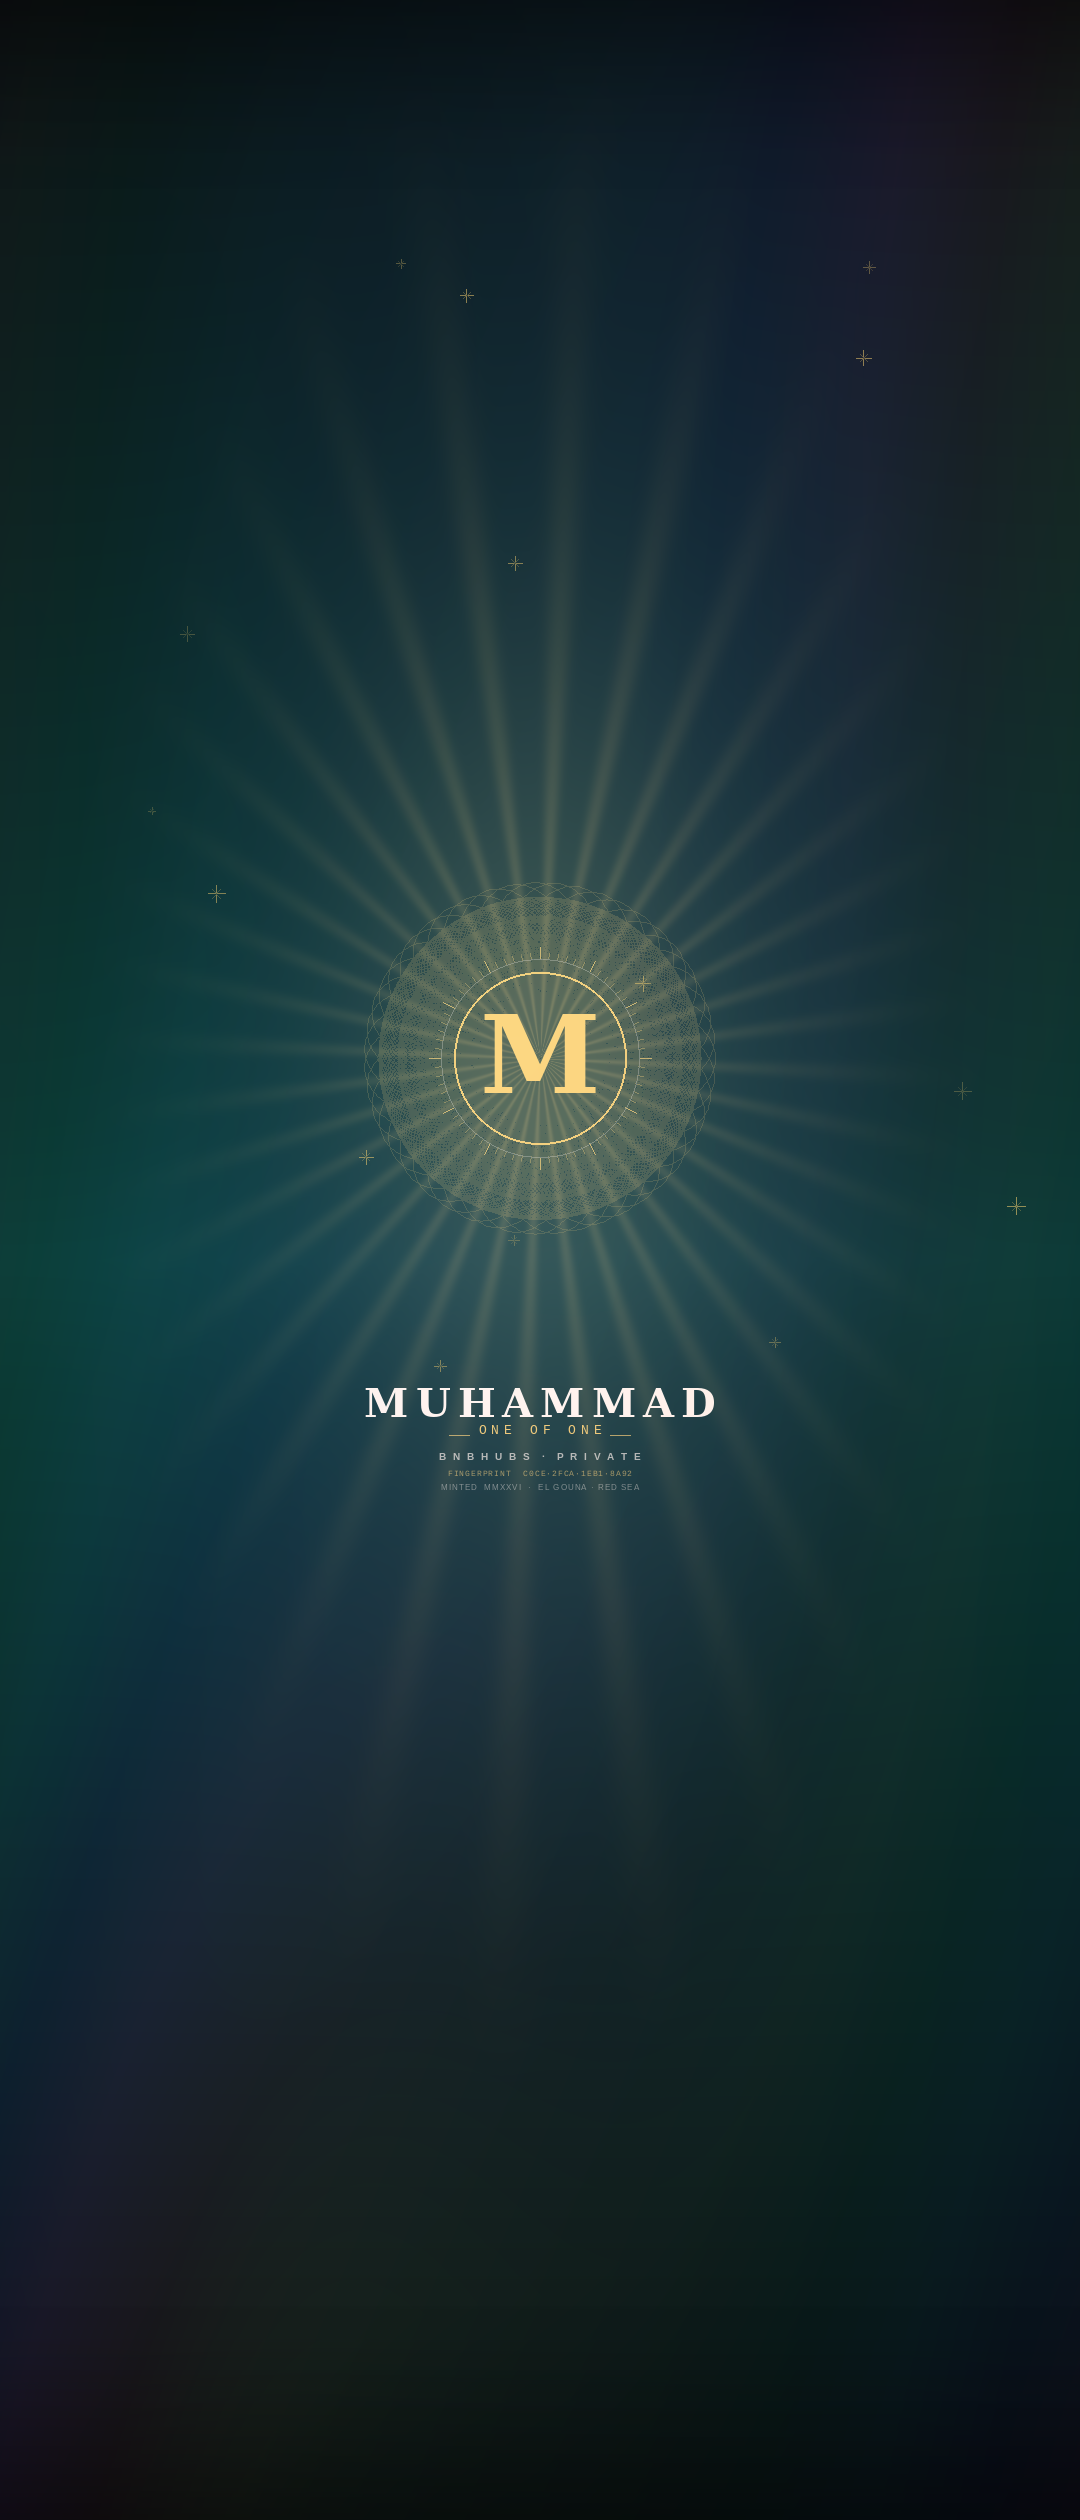
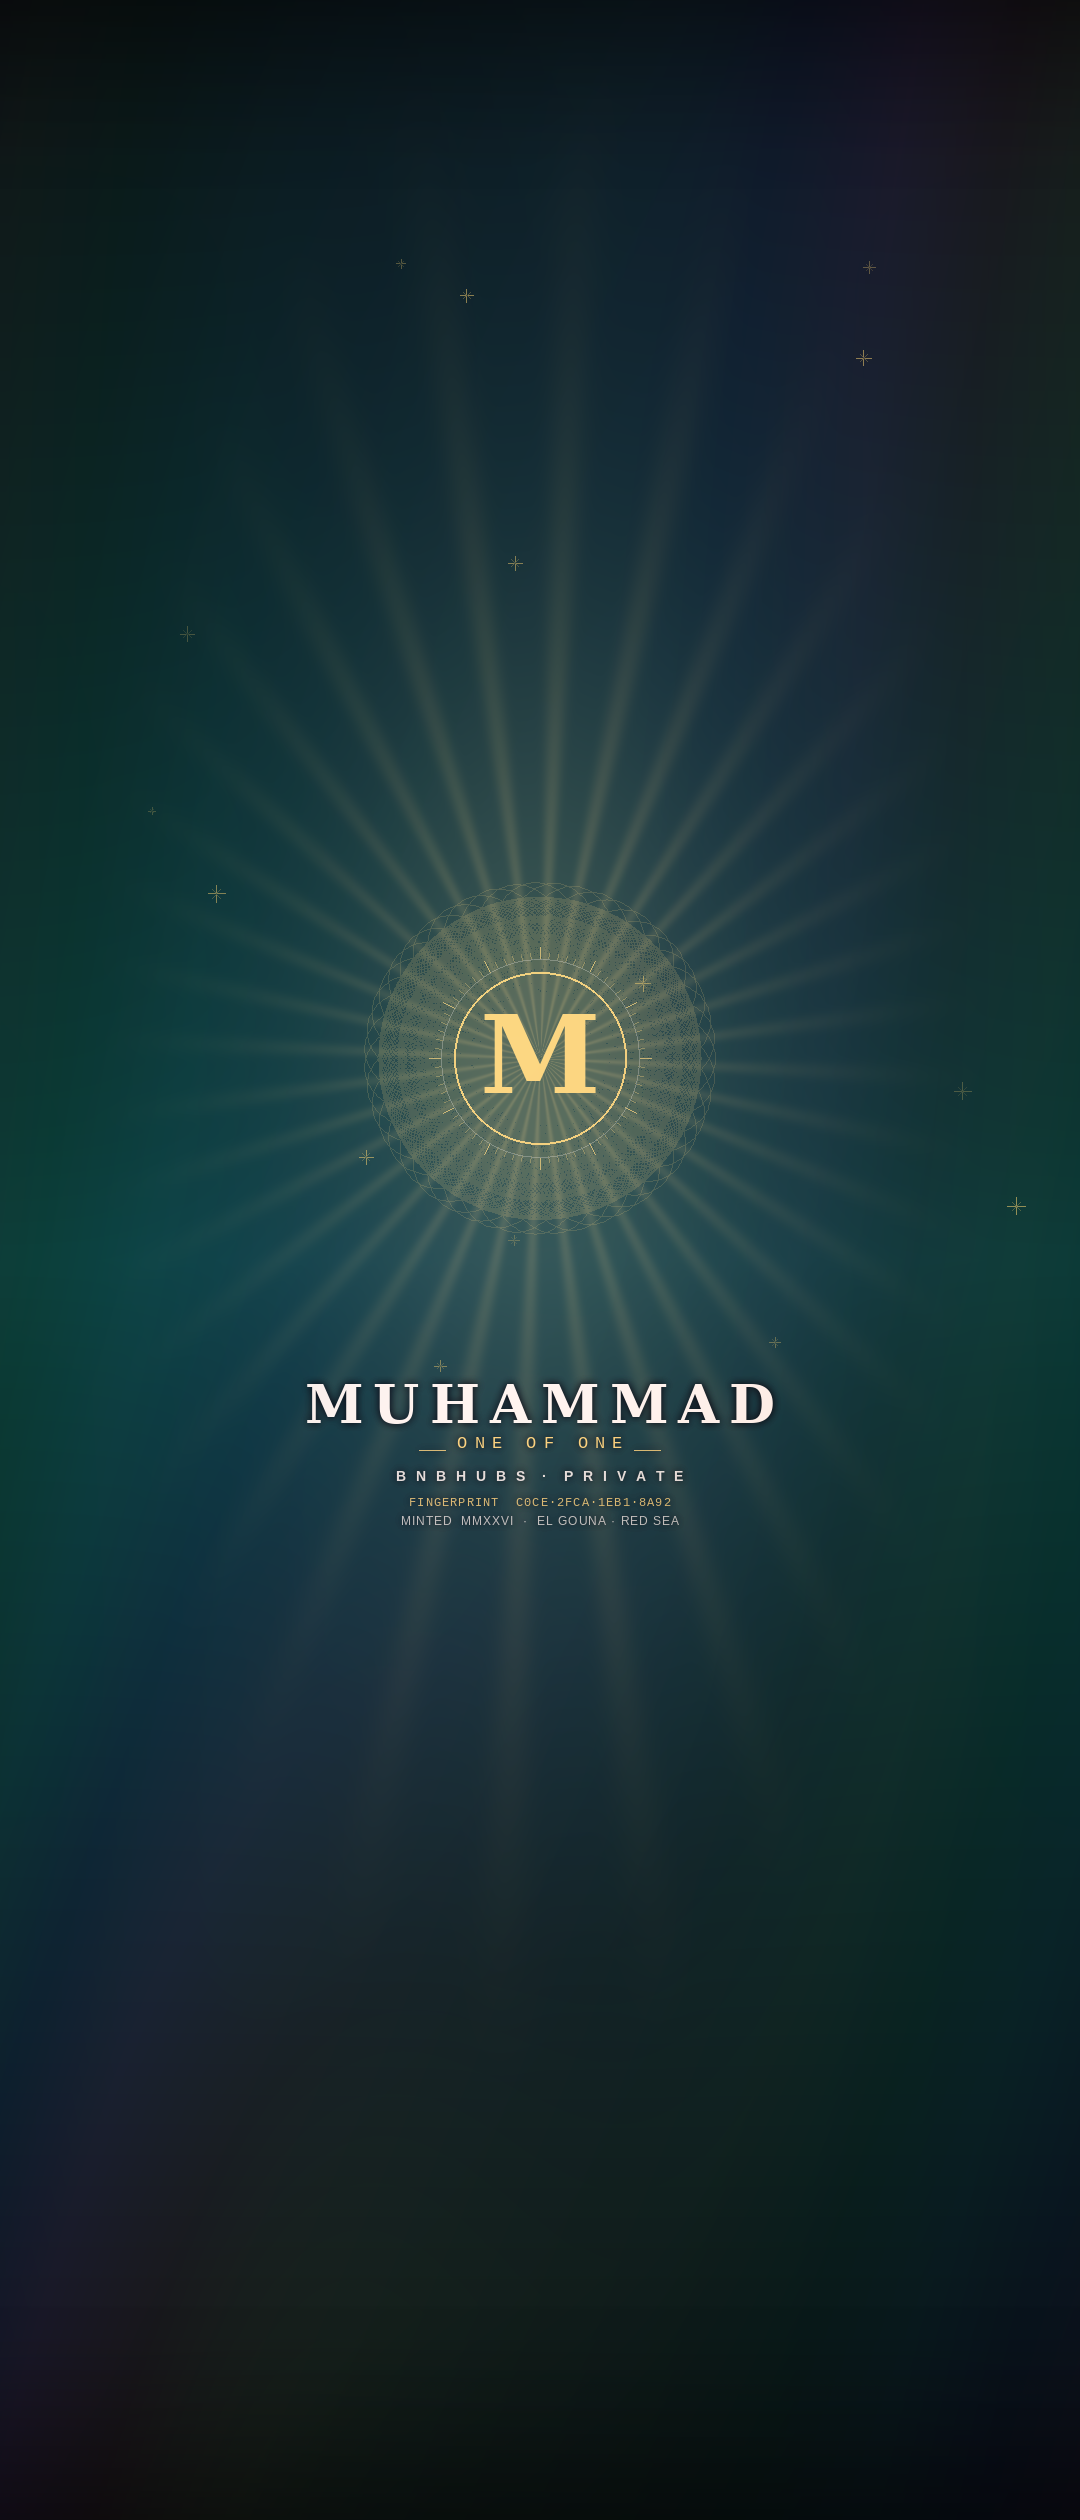
Improve wallpaper text legibility without changing tone
Adds a soft contrast halo behind all text (dark halo in dark mode, light
in light), raises text opacity, and enforces a larger minimum text size on
the cover screen so the name, edition, fingerprint and mark stay readable.
Colors, emblem, gradients and overall mood are unchanged.

Changed region(s): [[0.275, 0.5262, 0.7028, 0.619]]

diff --git a/wallpapers/bnbhubs-private-edition/generate.py b/wallpapers/bnbhubs-private-edition/generate.py
@@ -19,7 +19,7 @@ GOLD=np.array([232,176,75])/255; GOLD_B=np.array([244,205,110])/255; CORAL=np.ar
 IVORY=np.array([244,236,221])/255; SAND=np.array([225,207,173])/255; CREAM=np.array([243,244,242])/255
 
 FD="/usr/share/fonts/truetype"
-def font(p,s): return ImageFont.truetype(os.path.join(FD,p),max(8,int(s)))
+def font(p,s): return ImageFont.truetype(os.path.join(FD,p),max(12,int(s)))
 F_SERIF_B="dejavu/DejaVuSerif-Bold.ttf"; F_SANS="liberation/LiberationSans-Regular.ttf"
 F_SANS_B="liberation/LiberationSans-Bold.ttf"; F_MONO="liberation/LiberationMono-Regular.ttf"
 
@@ -102,23 +102,35 @@ def monogram_seal(cx,cy,scale,ink,accent):
 def mark(cx,cy,ink,accent,scale=1.0):
     ov=Image.new("RGBA",(W,H),(0,0,0,0)); d=ImageDraw.Draw(ov)
     ic=tuple(int(c*255) for c in ink); ac=tuple(int(c*255) for c in accent)
-    px,py=int(cx*W),int(cy*H); sc=scale*S
-    draw_text_spaced(d,(px,py),"B N B H U B S",font(F_SANS_B,30*sc),ic+(225,),tracking=int(8*sc))
-    lw=draw_text_spaced(d,(px,py+int(36*sc)),EDITION,font(F_MONO,19*sc),ac+(220,),tracking=int(6*sc))
-    ry=py+int(36*sc)+int(9*sc)
-    d.line([px-lw/2-int(40*sc),ry,px-lw/2-int(14*sc),ry],fill=ac+(160,),width=1)
-    d.line([px+lw/2+int(14*sc),ry,px+lw/2+int(40*sc),ry],fill=ac+(160,),width=1)
-    draw_text_spaced(d,(px,py+int(66*sc)),"FOR "+OWNER,font(F_SANS,16*sc),ic+(150,),tracking=int(3*sc))
-    draw_text_spaced(d,(px,py+int(90*sc)),FINGERPRINT,font(F_MONO,12*sc),ac+(120,),tracking=int(2*sc))
+    px,py=int(cx*W),int(cy*H); sc=scale*max(S,0.72)
+    draw_text_spaced(d,(px,py),"B N B H U B S",font(F_SANS_B,30*sc),ic+(240,),tracking=int(8*sc))
+    lw=draw_text_spaced(d,(px,py+int(38*sc)),EDITION,font(F_MONO,20*sc),ac+(240,),tracking=int(6*sc))
+    ry=py+int(38*sc)+int(10*sc)
+    d.line([px-lw/2-int(40*sc),ry,px-lw/2-int(14*sc),ry],fill=ac+(190,),width=max(1,int(1.3*sc)))
+    d.line([px+lw/2+int(14*sc),ry,px+lw/2+int(40*sc),ry],fill=ac+(190,),width=max(1,int(1.3*sc)))
+    draw_text_spaced(d,(px,py+int(70*sc)),"FOR "+OWNER,font(F_SANS,17*sc),ic+(215,),tracking=int(3*sc))
+    draw_text_spaced(d,(px,py+int(96*sc)),FINGERPRINT,font(F_MONO,15*sc),ac+(200,),tracking=int(2*sc))
     return ov
 def comp(arr,ov,blur=0):
     if blur: ov=ov.filter(ImageFilter.GaussianBlur(blur))
     base=to_img(arr).convert("RGBA"); base.alpha_composite(ov)
     return np.asarray(base.convert("RGB")).astype(np.float32)/255
 
+def shadow_comp(arr,ov,mode,alpha=0.7,blur=None):
+    """Composite a text overlay with a soft contrast halo behind it (dark halo
+    in dark mode, light halo in light mode) — boosts legibility, keeps tone."""
+    if blur is None: blur=max(4,int(7*S))
+    base=to_img(arr).convert("RGBA"); a=ov.split()[3]
+    val=0 if mode=='dark' else 255
+    sh_a=a.point(lambda v:int(v*alpha))
+    chan=Image.new("L",(W,H),val)
+    shadow=Image.merge("RGBA",(chan,chan,chan,sh_a)).filter(ImageFilter.GaussianBlur(blur))
+    base.alpha_composite(shadow); base.alpha_composite(shadow); base.alpha_composite(ov)
+    return np.asarray(base.convert("RGB")).astype(np.float32)/255
+
 def finalize(arr,mode,ink,acc,irid=0.05,spark=False,markpos=0.135):
     arr=arr+iridescent(irid,mode); arr=vignette(arr,0.20 if mode=='dark' else 0.12); arr=arr+grain(0.010)
-    arr=comp(arr,mark(0.5,markpos,ink,acc,1.05))
+    arr=shadow_comp(arr,mark(0.5,markpos,ink,acc,1.05),mode,alpha=0.6)
     if spark: arr=comp(arr,sparkles(int(22*max(S,0.6)),mode,acc))
     arr=legibility(arr,mode); return to_img(arr)
 
@@ -203,16 +215,16 @@ def skin_signature(mode):
     arr=comp(arr,monogram_seal(cx,cy,1.05,ink,acc))
     ov=Image.new("RGBA",(W,H),(0,0,0,0)); d=ImageDraw.Draw(ov)
     ic=tuple(int(c*255) for c in ink); ac=tuple(int(c*255) for c in acc)
-    px=int(cx*W); by=int((cy+0.135)*H); sc=S
+    px=int(cx*W); by=int((cy+0.135)*H); sc=max(S,0.72)
     draw_text_spaced(d,(px,by),OWNER,font(F_SERIF_B,74*sc),ic+(255,),tracking=int(14*sc))
-    lw=draw_text_spaced(d,(px,by+int(58*sc)),EDITION,font(F_MONO,24*sc),ac+(235,),tracking=int(10*sc))
-    ry=by+int(58*sc)+int(12*sc)
-    d.line([px-lw/2-int(54*sc),ry,px-lw/2-int(18*sc),ry],fill=ac+(170,),width=1)
-    d.line([px+lw/2+int(18*sc),ry,px+lw/2+int(54*sc),ry],fill=ac+(170,),width=1)
-    draw_text_spaced(d,(px,by+int(104*sc)),"B N B H U B S  ·  P R I V A T E",font(F_SANS_B,20*sc),ic+(170,),tracking=int(5*sc))
-    draw_text_spaced(d,(px,by+int(138*sc)),"FINGERPRINT  "+FINGERPRINT,font(F_MONO,16*sc),ac+(150,),tracking=int(2*sc))
-    draw_text_spaced(d,(px,by+int(162*sc)),"MINTED  "+MINTED+"  ·  EL GOUNA · RED SEA",font(F_SANS,14*sc),ic+(110,),tracking=int(2*sc))
-    arr=comp(arr,ov); arr=vignette(arr,0.2 if mode=='dark' else 0.12)
+    lw=draw_text_spaced(d,(px,by+int(60*sc)),EDITION,font(F_MONO,24*sc),ac+(250,),tracking=int(10*sc))
+    ry=by+int(60*sc)+int(13*sc)
+    d.line([px-lw/2-int(54*sc),ry,px-lw/2-int(18*sc),ry],fill=ac+(210,),width=max(1,int(1.4*sc)))
+    d.line([px+lw/2+int(18*sc),ry,px+lw/2+int(54*sc),ry],fill=ac+(210,),width=max(1,int(1.4*sc)))
+    draw_text_spaced(d,(px,by+int(108*sc)),"B N B H U B S  ·  P R I V A T E",font(F_SANS_B,20*sc),ic+(225,),tracking=int(5*sc))
+    draw_text_spaced(d,(px,by+int(144*sc)),"FINGERPRINT  "+FINGERPRINT,font(F_MONO,17*sc),ac+(210,),tracking=int(2*sc))
+    draw_text_spaced(d,(px,by+int(170*sc)),"MINTED  "+MINTED+"  ·  EL GOUNA · RED SEA",font(F_SANS,15*sc),ic+(185,),tracking=int(2*sc))
+    arr=shadow_comp(arr,ov,mode); arr=vignette(arr,0.2 if mode=='dark' else 0.12)
     arr=arr+iridescent(0.08 if mode=='dark' else 0.05,mode)
     arr=np.clip(arr,0,1); arr=comp(arr,sparkles(int(26*max(S,0.6)),mode,acc)); arr=legibility(arr,mode)
     return to_img(arr)
